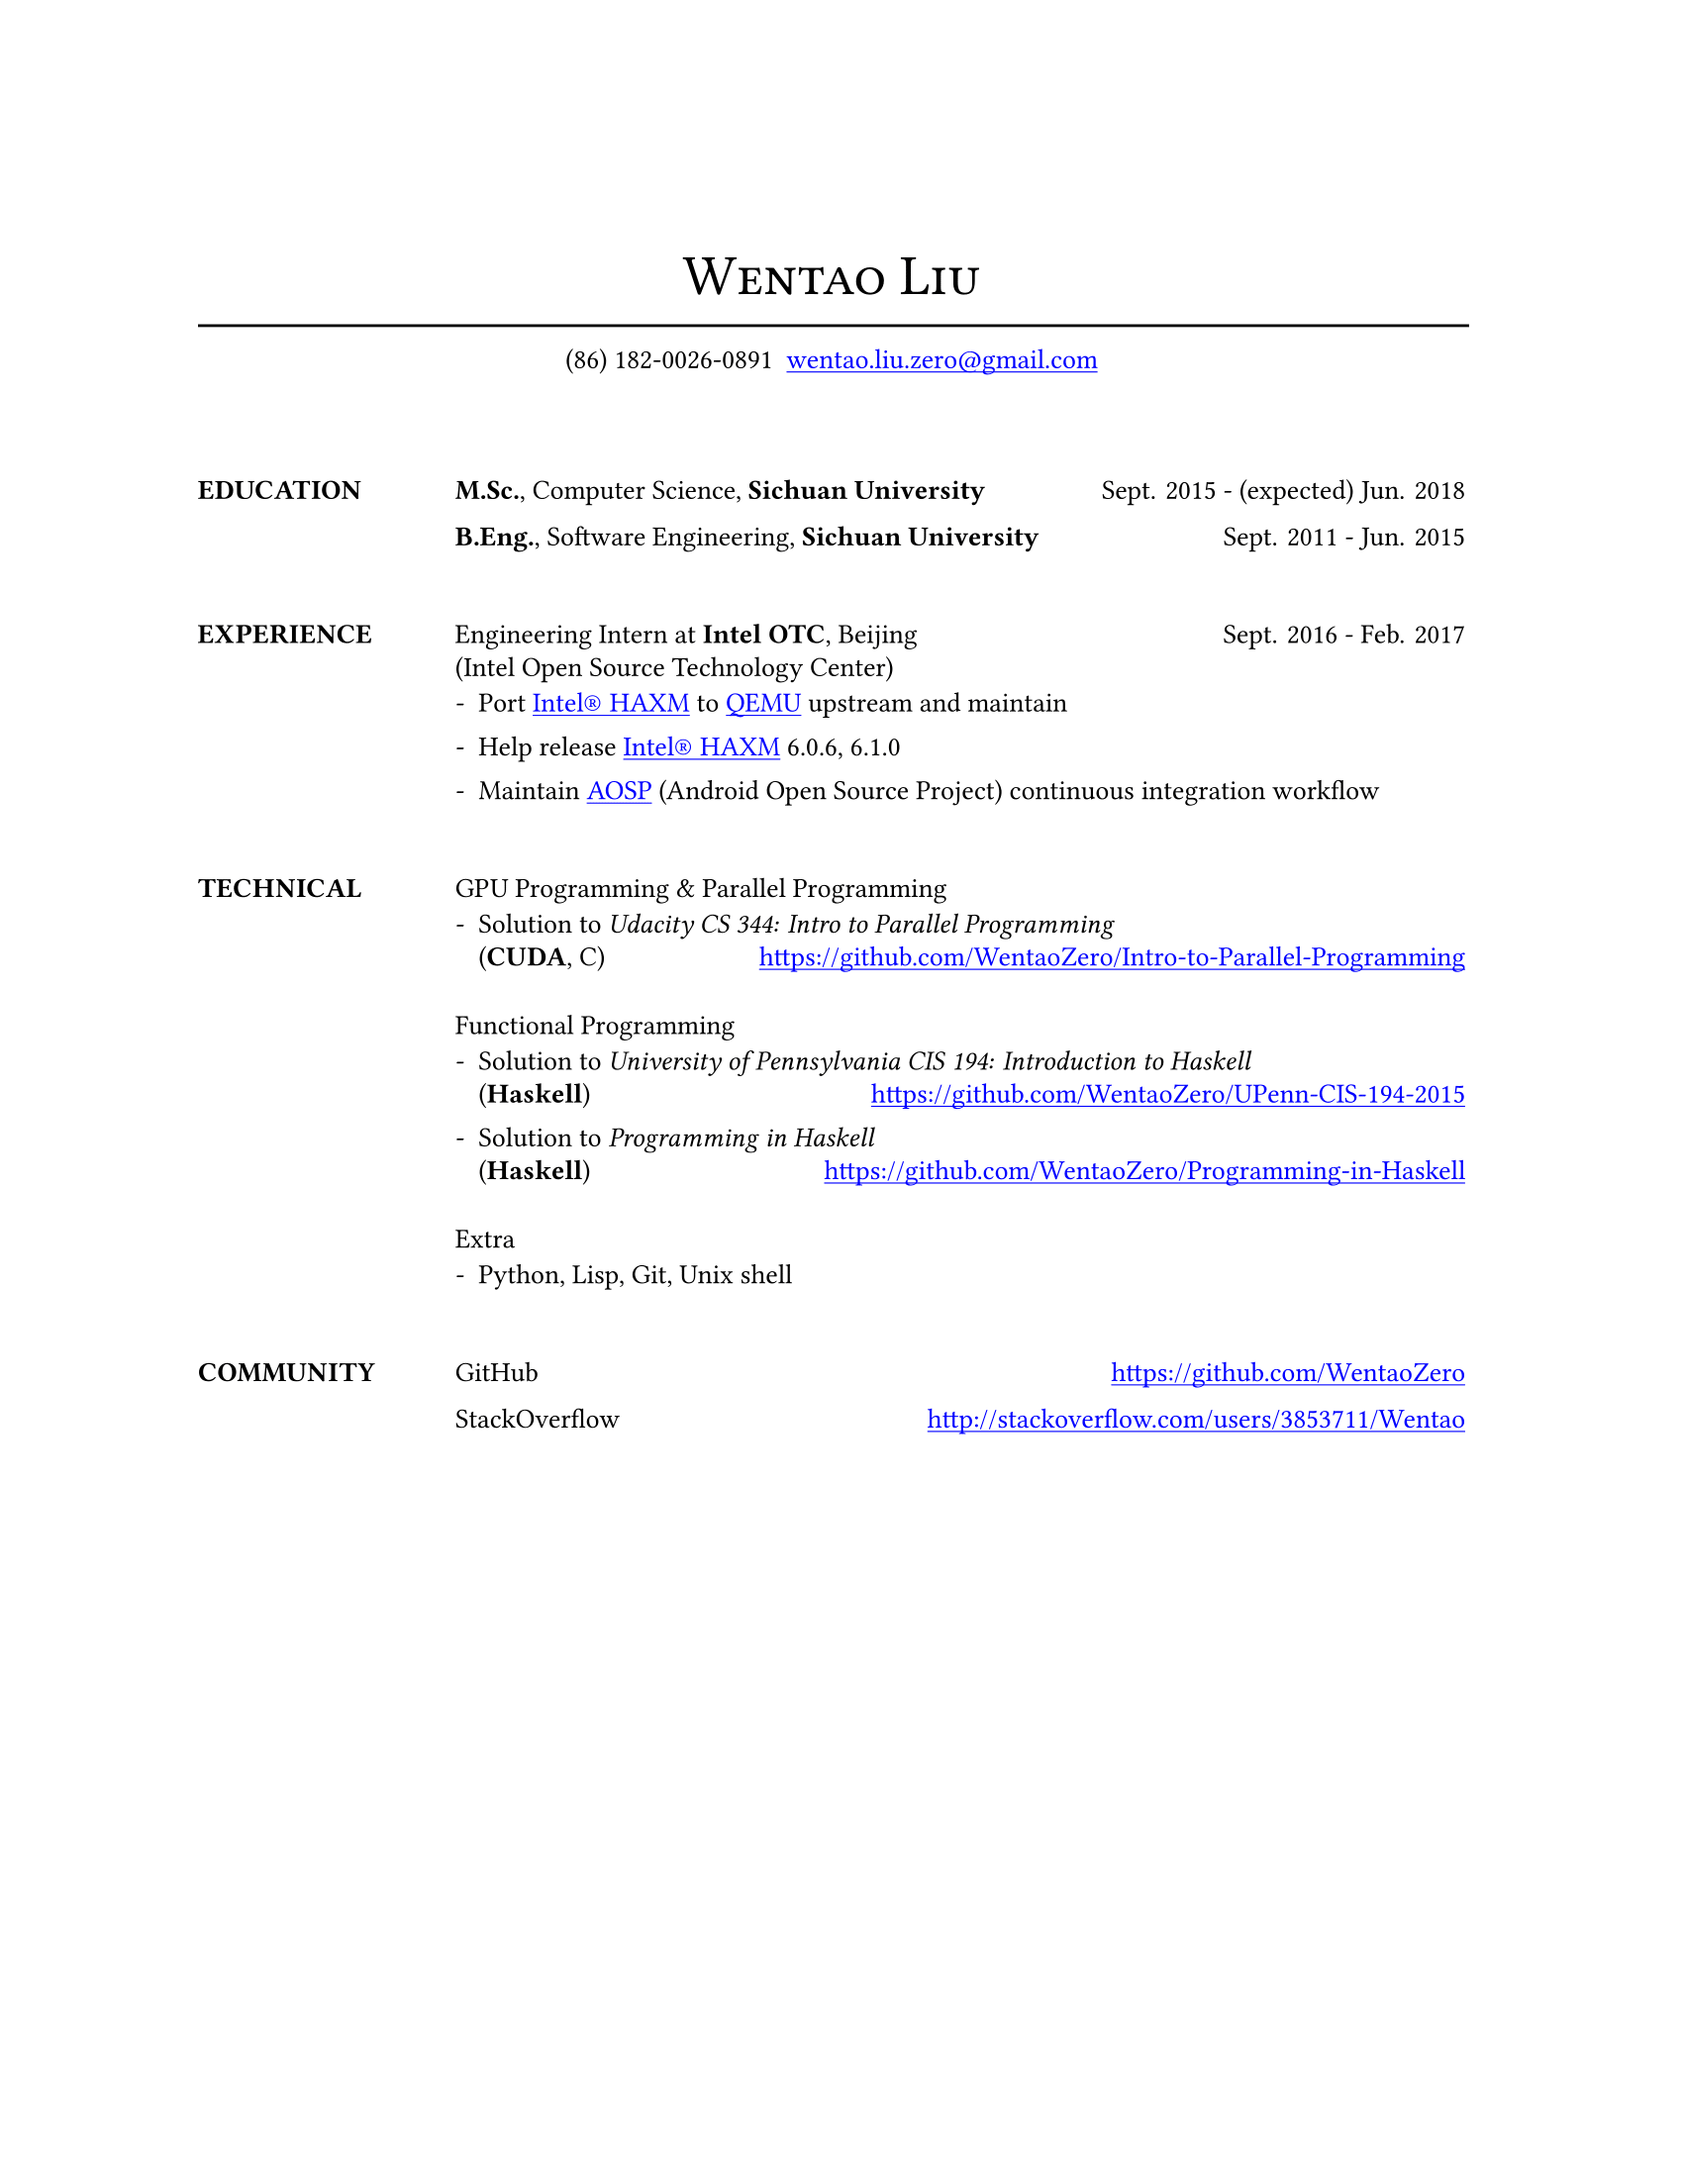
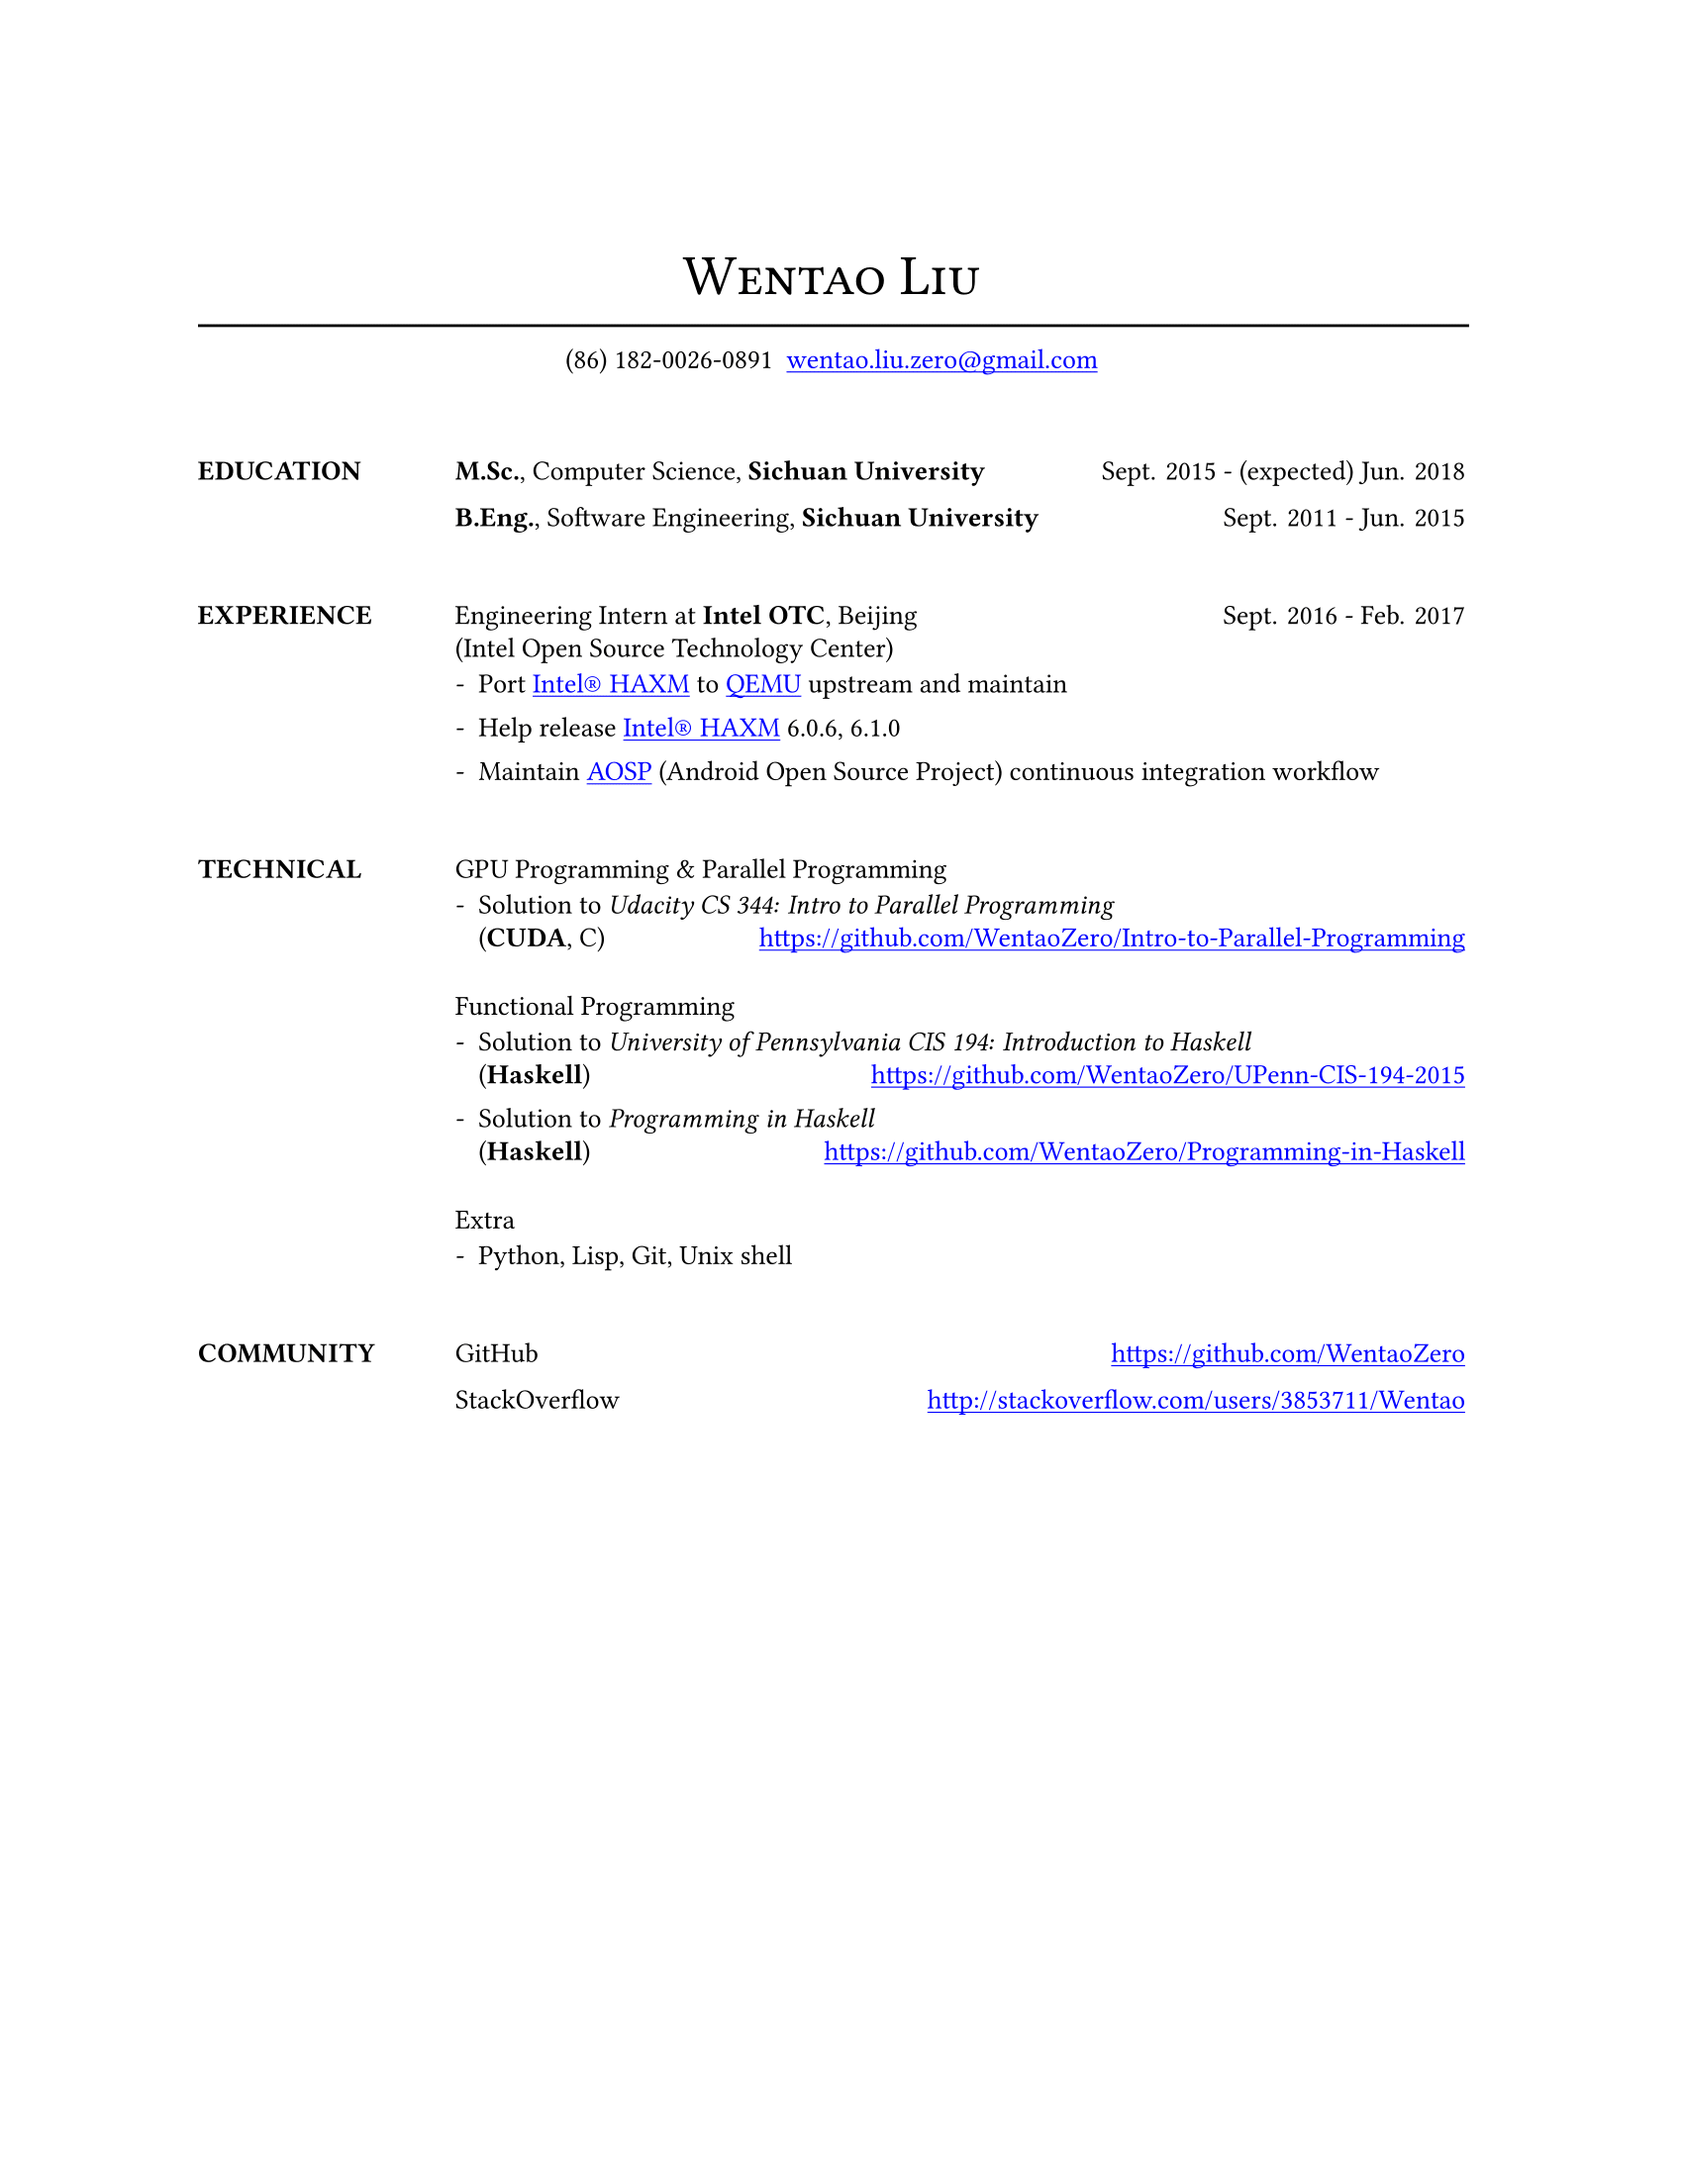
adjust vertical indent between \HEADER and EDUCATION

diff --git a/Resume-Wentao-LIU.tex b/Resume-Wentao-LIU.tex
@@ -27,11 +27,13 @@
 
 \def \WentaoResume
 {
+	\def \ItemVindent {\vspace*{-0.7em}}
+
 	\HEADER
 
-	\begin{resume}
+	{\ItemVindent}
 
-	\def \ItemVindent {\vspace*{-0.7em}}
+	\begin{resume}
 
 	\section{EDUCATION}
 
